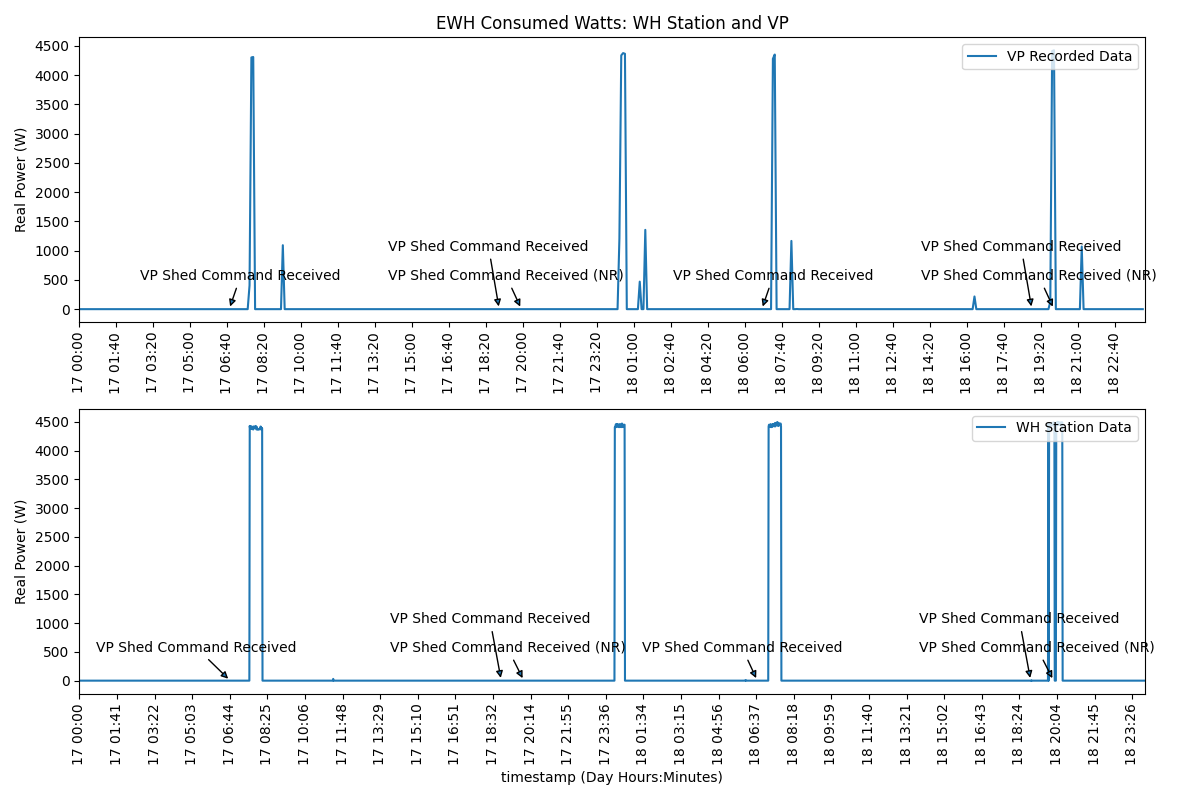
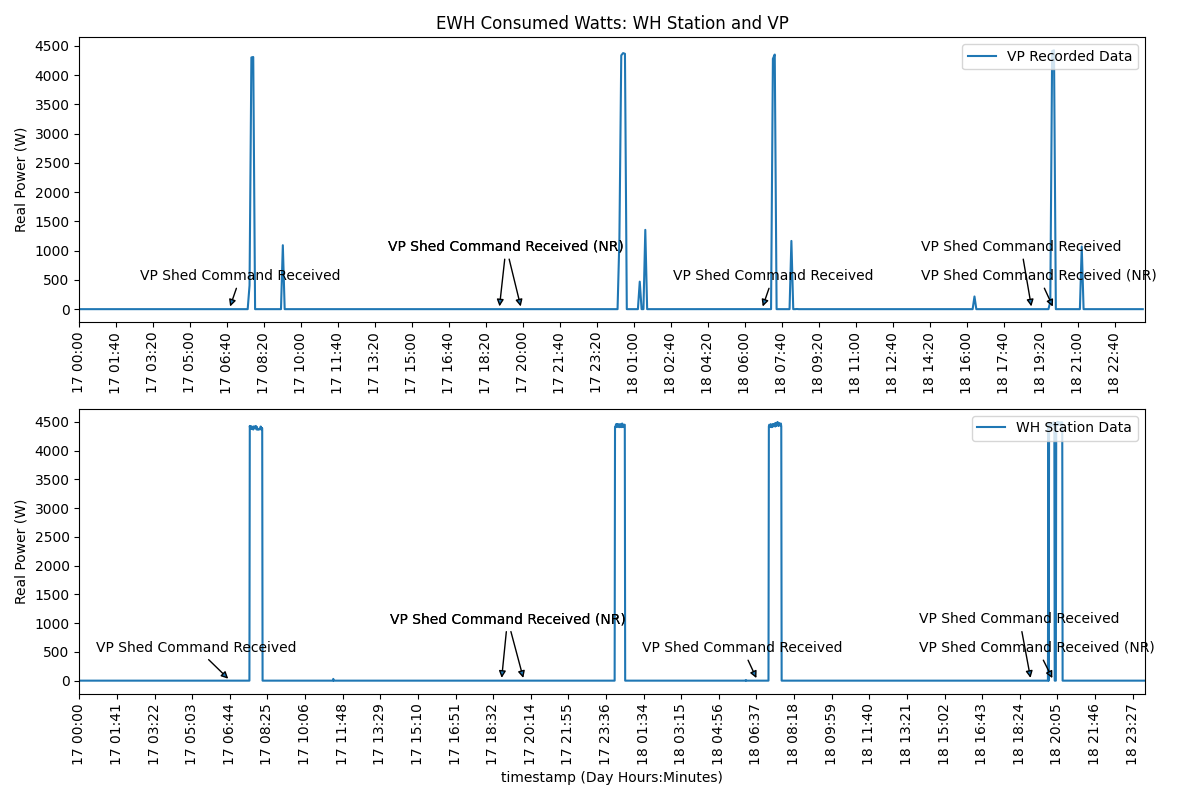
fixed watts plot emcb open

diff --git a/Programmable_Load_Control/scripts/ewh_no_load_up_emcb_open_watts.py b/Programmable_Load_Control/scripts/ewh_no_load_up_emcb_open_watts.py
@@ -46,11 +46,11 @@ def ewh_vp_vs_log_no_loadup(log,vp):
     ax[1].legend(loc='upper right')
     ax[0].set_title('EWH Consumed Watts: WH Station and VP')
     ax[0].annotate('VP Shed Command Received',xy=('17 06:45',0),xytext=('17 02:45',500),arrowprops=dict(arrowstyle='-|>'))
-    ax[0].annotate('VP Shed Command Received',xy=('17 18:55',0),xytext=('17 13:55',1000),arrowprops=dict(arrowstyle='-|>'))
-    ax[0].annotate('VP Shed Command Received (NR)',xy=('17 19:55',0),xytext=('17 13:55',500),arrowprops=dict(arrowstyle='-|>'))
+    ax[0].annotate('VP Shed Command Received (NR)',xy=('17 18:55',0),xytext=('17 13:55',1000),arrowprops=dict(arrowstyle='-|>'))
+    ax[0].annotate('VP Shed Command Received (NR)',xy=('17 19:55',0),xytext=('17 13:55',1000),arrowprops=dict(arrowstyle='-|>'))
     ax[1].annotate('VP Shed Command Received',xy=('17 06:45',0),xytext=('17 00:45',500),arrowprops=dict(arrowstyle='-|>'))
-    ax[1].annotate('VP Shed Command Received',xy=('17 18:55',0),xytext=('17 13:55',1000),arrowprops=dict(arrowstyle='-|>'))
-    ax[1].annotate('VP Shed Command Received (NR)',xy=('17 19:55',0),xytext=('17 13:55',500),arrowprops=dict(arrowstyle='-|>'))
+    ax[1].annotate('VP Shed Command Received (NR)',xy=('17 18:55',0),xytext=('17 13:55',1000),arrowprops=dict(arrowstyle='-|>'))
+    ax[1].annotate('VP Shed Command Received (NR)',xy=('17 19:55',0),xytext=('17 13:55',1000),arrowprops=dict(arrowstyle='-|>'))
     ax[0].annotate('VP Shed Command Received',xy=('18 06:45',0),xytext=('18 02:45',500),arrowprops=dict(arrowstyle='-|>'))
     ax[0].annotate('VP Shed Command Received',xy=('18 18:55',0),xytext=('18 13:55',1000),arrowprops=dict(arrowstyle='-|>'))
     ax[0].annotate('VP Shed Command Received (NR)',xy=('18 19:55',0),xytext=('18 13:55',500),arrowprops=dict(arrowstyle='-|>'))
